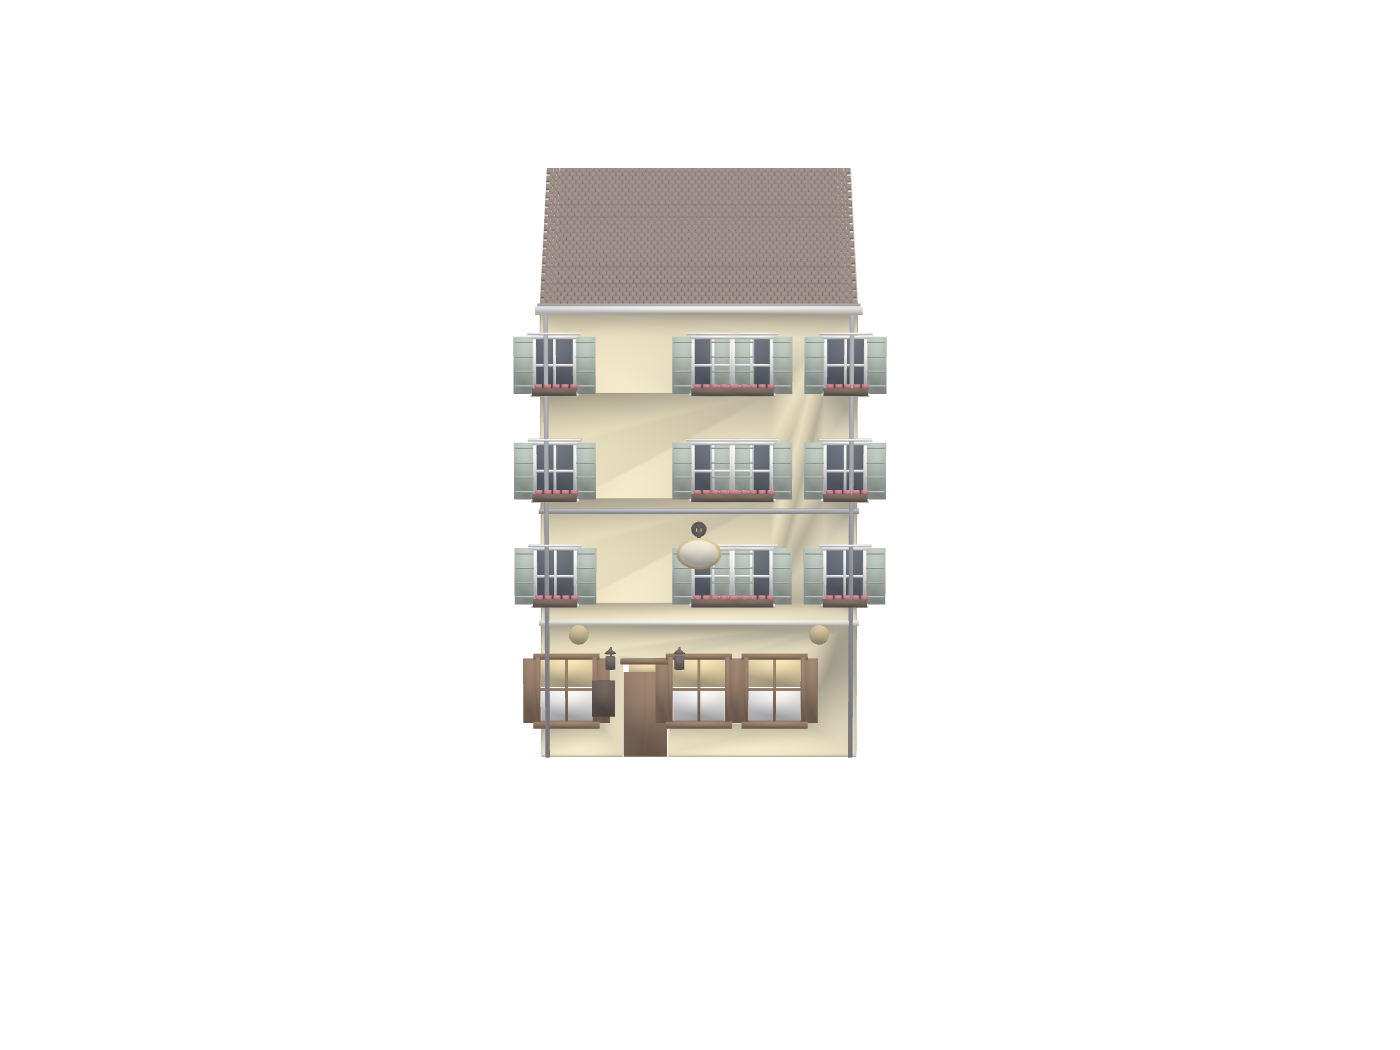
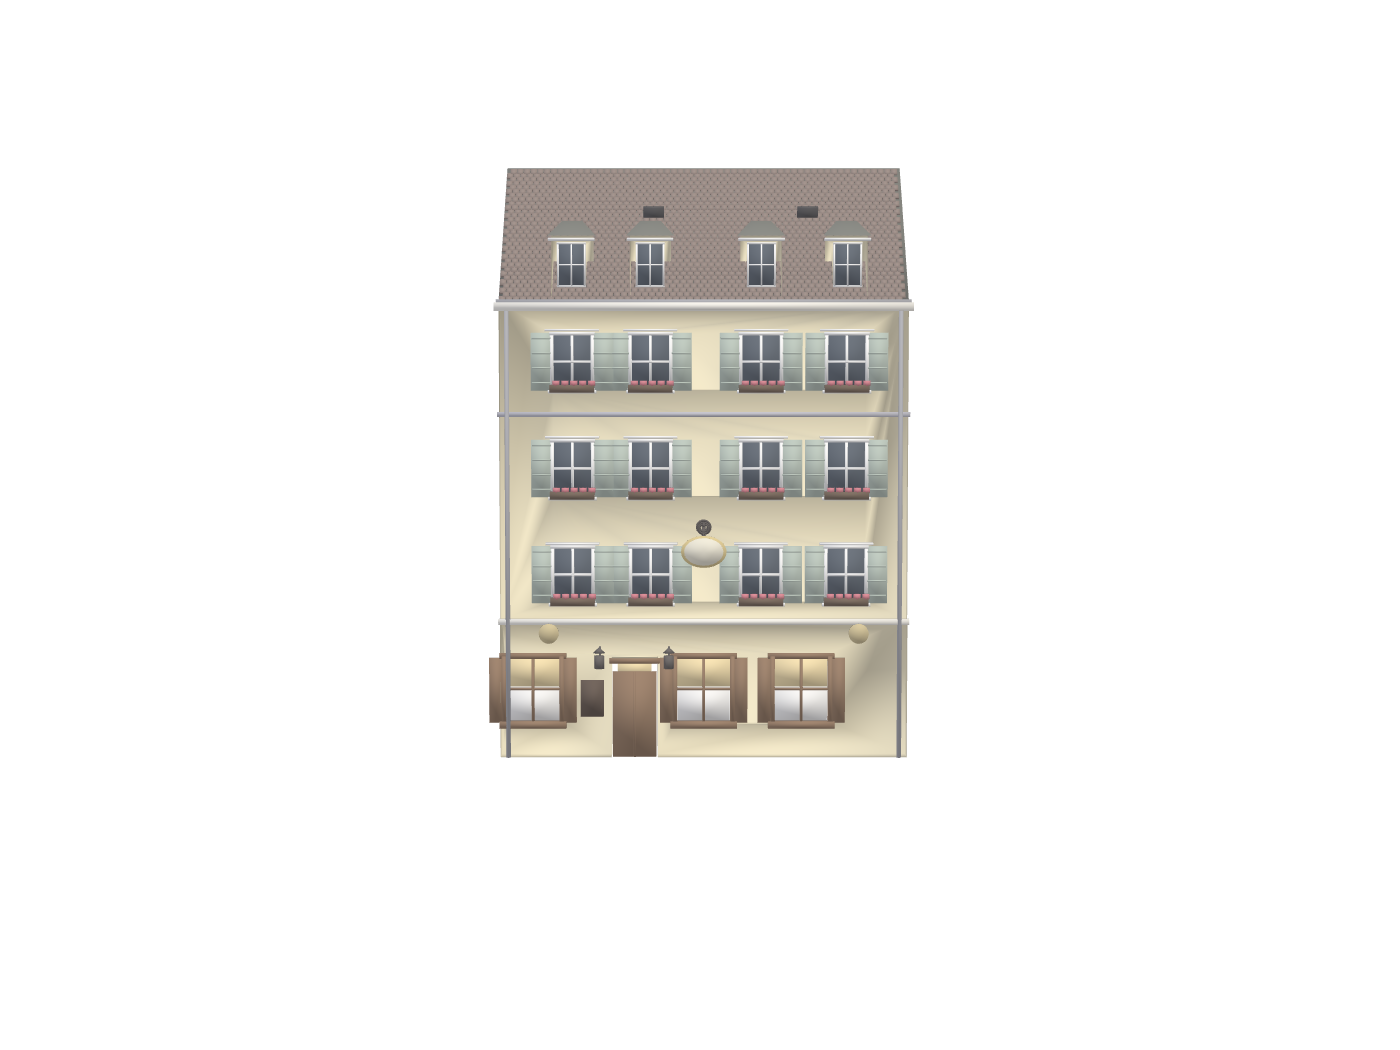
fix(oberkirch): GUTEN gestrigen Stand wiederhergestellt (0% Diff zur GLB von gestern)
Ursache des Schrotts gefunden: fassade_messen.py wurde gestern 21:03 fuer Ganter
(generische Blaugrau-Farberkennung) geaendert -> mass Oberkirch-Fassade schmaler
(W 8.3 statt 10.6), Achsen falsch. Revert fassade_messen auf d129ce8 -> Oberkirch
wieder W=10.6, Achsen [0.179,0.37,0.64,0.849] = 2+Luecke+2-Muster. Waechter: 0.0%
Diff zur gestrigen GLB. HINWEIS: Ganter-Generik-Farberkennung dadurch rueckgaengig,
muss spaeter so geloest werden dass beide (cremefarben+blaugrau) messbar bleiben.

Changed region(s): [[0.3379, 0.1524, 0.6757, 0.7314]]

diff --git a/tools/fassade_messen.py b/tools/fassade_messen.py
@@ -19,17 +19,9 @@ import cv2
 
 
 def _facade_mask(crop):
-    """GENERISCH: dominante Fassadenfarbe aus dem zentralen Band bestimmen (nicht Himmel, nicht
-    sehr dunkel/Fenster) und die größte zusammenhängende Fläche dieser Farbe segmentieren —
-    funktioniert für Creme, Blaugrau, Grün … (nicht mehr auf Creme festgenagelt)."""
-    ch, cw = crop.shape[:2]
-    cen = crop[int(0.18 * ch):int(0.78 * ch), int(0.28 * cw):int(0.72 * cw)].reshape(-1, 3).astype(int)
-    sky = (cen[:, 2] > 195) & (cen[:, 1] > 195) & (cen[:, 0] > 190)
-    br = cen.sum(1)
-    sel = (~sky) & (br > 150) & (br < 720)
-    med = np.median(cen[sel], 0) if int(sel.sum()) > 50 else np.median(cen, 0)   # dominante Fassadenfarbe (BGR)
-    dist = np.abs(crop.astype(int) - med).sum(2)
-    m = ((dist < 80).astype(np.uint8)) * 255
+    b, g, r = crop[:, :, 0].astype(int), crop[:, :, 1].astype(int), crop[:, :, 2].astype(int)
+    cream = (r > 150) & (g > 140) & (b < 190) & (r >= b) & (g >= b - 12) & ((r + g) > 2.05 * b)
+    m = (cream.astype(np.uint8)) * 255
     m = cv2.morphologyEx(m, cv2.MORPH_CLOSE, np.ones((21, 21), np.uint8))
     m = cv2.morphologyEx(m, cv2.MORPH_OPEN, np.ones((9, 9), np.uint8))
     nl, lbl, st, _ = cv2.connectedComponentsWithStats(m)
@@ -247,13 +239,8 @@ if __name__ == "__main__":
     nax = int(sys.argv[4]) if len(sys.argv) > 4 and not sys.argv[4].startswith("--") else 4
     out = sys.argv[sys.argv.index("--out") + 1] if "--out" in sys.argv else "/tmp/fassade_mass.json"
     res, crop, facade, (fx, fy, fw, fh), ground_y, scale = measure(foto, box, eave, nax)
-    def _np(o):
-        if isinstance(o, np.integer): return int(o)
-        if isinstance(o, np.floating): return float(o)
-        if isinstance(o, np.ndarray): return o.tolist()
-        return str(o)
-    print(json.dumps(res, indent=2, ensure_ascii=False, default=_np))
-    json.dump(res, open(out, "w"), indent=2, ensure_ascii=False, default=_np)
+    print(json.dumps(res, indent=2, ensure_ascii=False))
+    json.dump(res, open(out, "w"), indent=2, ensure_ascii=False)
     vis = crop.copy()
     cv2.rectangle(vis, (fx, fy), (fx + fw, fy + fh), (255, 0, 0), 2)
     cv2.line(vis, (0, ground_y), (vis.shape[1], ground_y), (0, 0, 255), 2)

diff --git a/tools/bauwerk_generator.py b/tools/bauwerk_generator.py
@@ -195,13 +195,7 @@ def element(name):
 def gen_facade(c, p):
     w = c.win; ww, wh, so = w["w"], w["h"], w["sill_off"]
     holes = [(cx - ww / 2, cx + ww / 2, sill, sill + wh) for sill, cx in c.floors_windows()]
-    xs = p.get("x_split")                                      # GENERISCH: zwei Farbzonen (Doppelhaus)
-    if xs:
-        xsp = float(xs) * c.W
-        out = {"fassade_links": panel(0, xsp, c.eg_top, c.eave, [h for h in holes if (h[0] + h[1]) / 2 < xsp], c.front_t),
-               "fassade": panel(xsp, c.W, c.eg_top, c.eave, [h for h in holes if (h[0] + h[1]) / 2 >= xsp], c.front_t)}
-    else:
-        out = {"fassade": panel(0, c.W, c.eg_top, c.eave, holes, c.front_t)}
+    out = {"fassade": panel(0, c.W, c.eg_top, c.eave, holes, c.front_t)}
     if p.get("textured", False) and c.measured.get("facade_region_upper"):   # Fassadentextur aus Foto (opt-in)
         tex = _facade_texture(c.cfg, c.measured["facade_region_upper"])
         if tex is not None:
@@ -444,13 +438,8 @@ def gen_dormers(c, p):
     if n <= 0:
         return {}
     dw, dh = float(p.get("w", 1.05)), float(p.get("h", 1.55))
-    xf = p.get("x_frac")                                       # feste Gauben-Positionen (z.B. nur rechtes Haus)
-    if xf:
-        xs = [c.W * float(f) for f in xf]
-    elif p.get("align_windows", True) and n == len(c.winx):
-        xs = c.winx
-    else:
-        xs = [c.W * (i + 0.5) / n for i in range(n)]
+    xs = c.winx if (p.get("align_windows", True) and n == len(c.winx)) else \
+        [c.W * (i + 0.5) / n for i in range(n)]
     zf, yf = c.eave + 0.15, -0.1
     bodies, roofs, glass, frames = [], [], [], []
     for cx in xs:
@@ -575,7 +564,7 @@ def export(cfg):
 
 
 DEFAULT_COL = {
-    "fassade": [228, 208, 150, 255], "fassade_links": [150, 155, 165, 255], "gesims": [238, 232, 214, 255],
+    "fassade": [228, 208, 150, 255], "gesims": [238, 232, 214, 255],
     "eg_sockel": [228, 208, 150, 255], "sockel_holz": [70, 52, 40, 255], "fenster": [40, 46, 54, 255],
     "eg_glas": [70, 54, 44, 255], "warmlicht": [240, 200, 120, 255],
     "schaufenster": [92, 62, 42, 255], "gardine": [240, 237, 230, 255],
